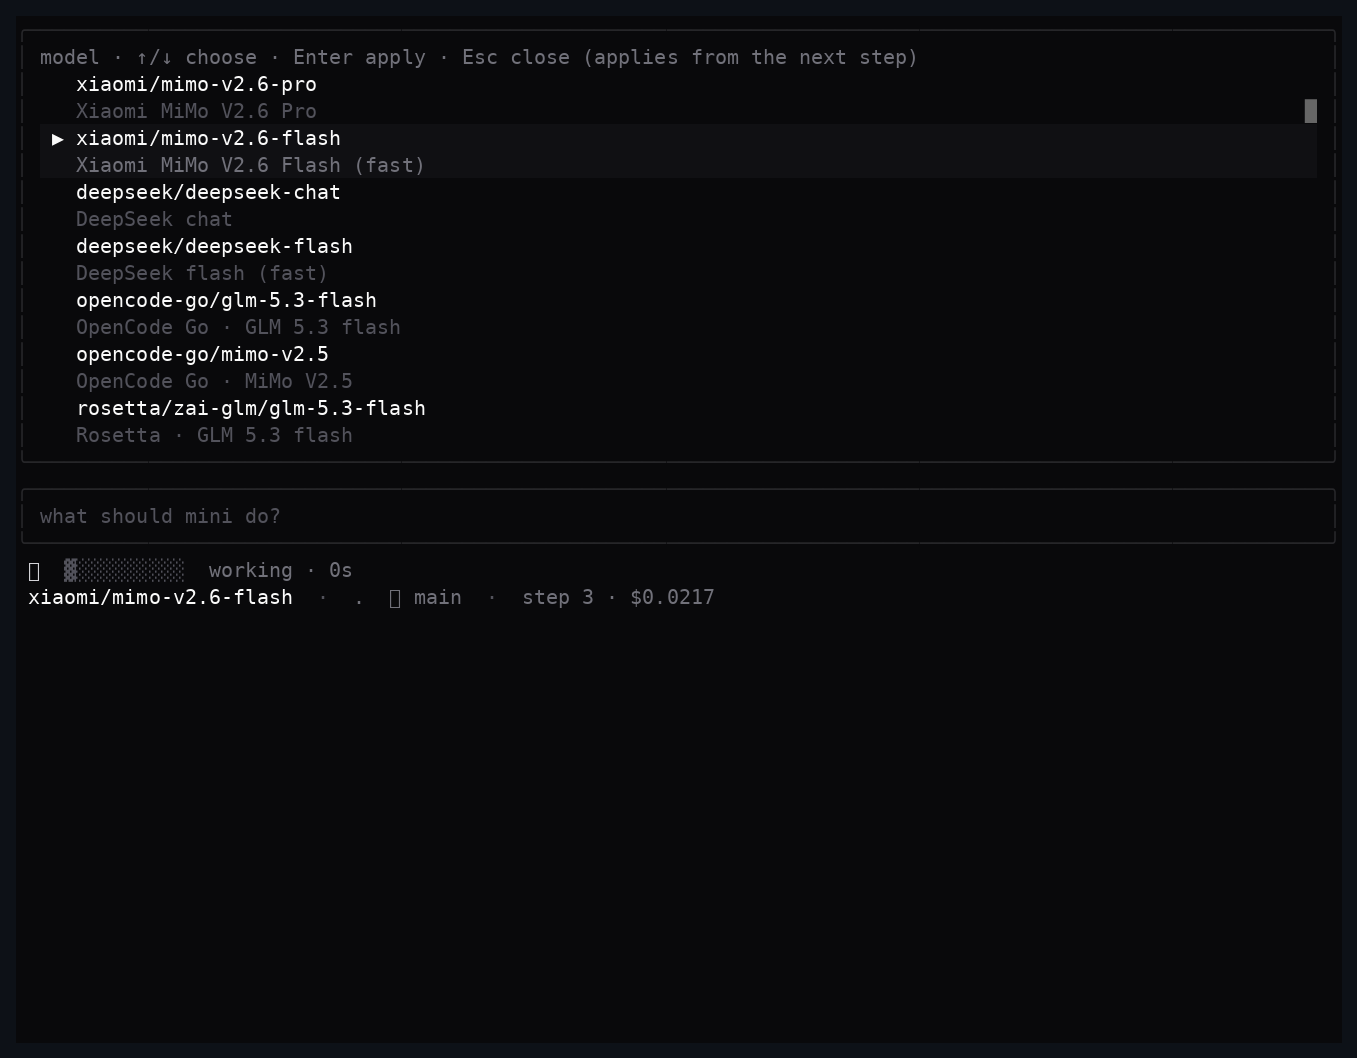
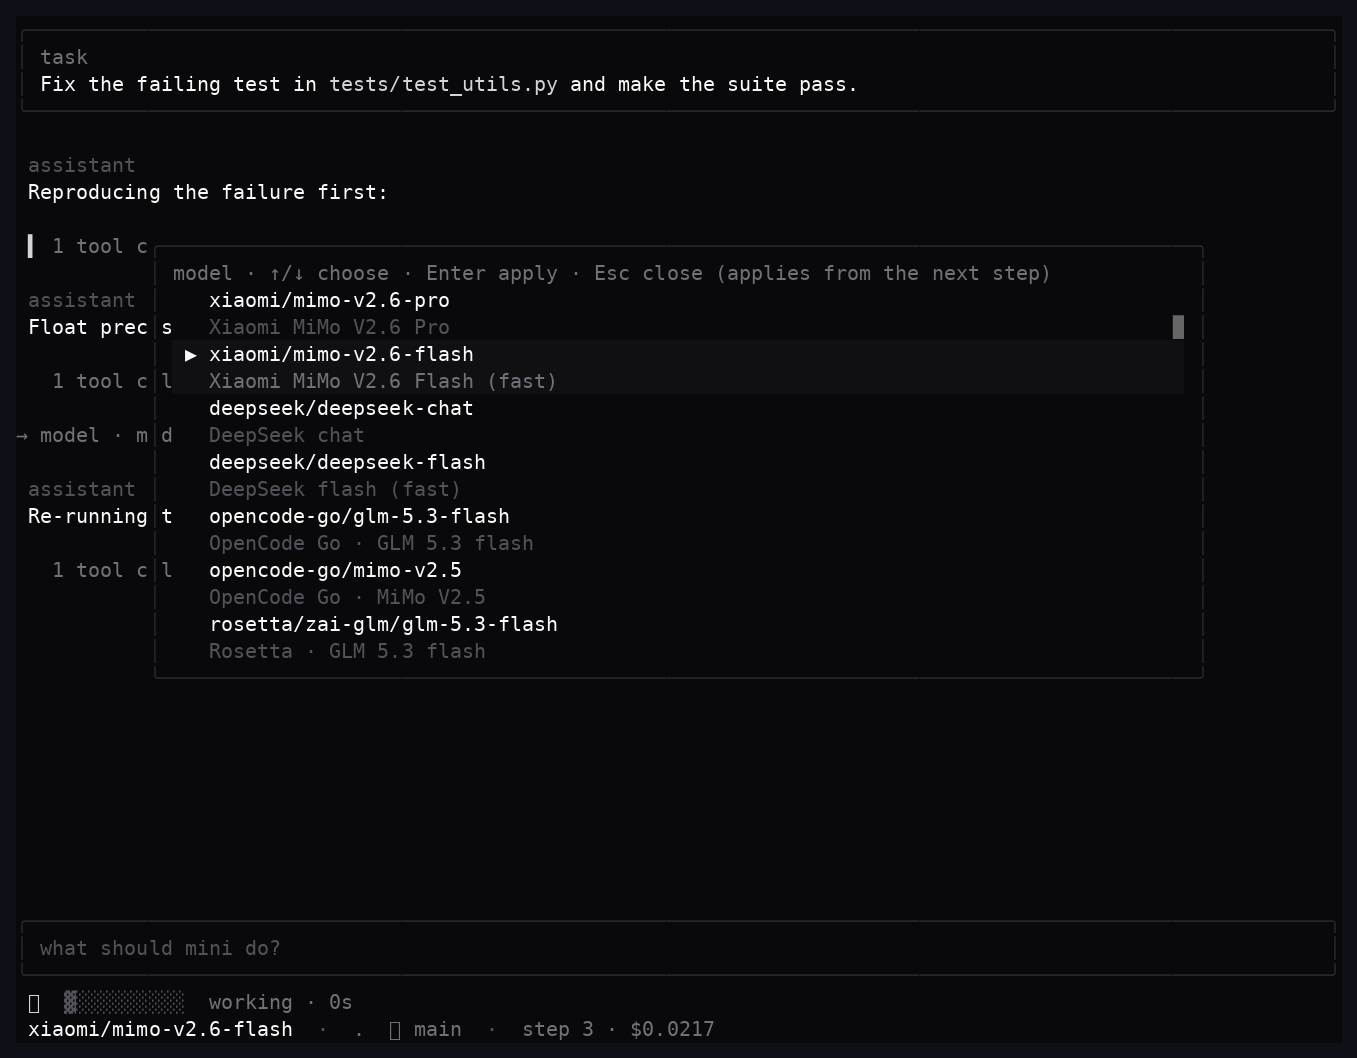
fix: command panels are true modals — the prompt bar never moves
- /model, /settings, /resume, /connect and /help render as absolute centered
  modals over the transcript instead of replacing it, so the prompt bar and the
  bottom stack keep their position even when height is tight
- panels clip to the available area (select height follows the viewport, the
  connect wizard windows its lists around the selection)
- regression test: identical prompt row with and without a modal on a 16-row
  terminal

diff --git a/src/ui/App.tsx b/src/ui/App.tsx
@@ -15,6 +15,7 @@ import { PromptBar } from "./components/PromptBar";
 import { ModelPicker, MODELS } from "./components/ModelPicker";
 import { SettingsPanel } from "./components/SettingsPanel";
 import { HelpPanel } from "./components/HelpPanel";
+import { Modal } from "./components/Modal";
 import { SessionModal } from "./components/SessionModal";
 import { CommandPalette, buildOptions, matchOptions, type CommandOption } from "./components/CommandPalette";
 import { ConnectWizard } from "./components/ConnectWizard";
@@ -542,13 +543,13 @@ export function App(props: AppProps) {
       }
 
       if (step.kind === "models") {
-        const shown = filterModels(step.models, step.query).slice(0, 10);
+        const filtered = filterModels(step.models, step.query);
         if (key.name === "escape") return setConnectStep({ kind: "key", def: step.def, value: step.key });
         if (key.name === "up") return setConnectStep({ ...step, index: Math.max(0, step.index - 1) });
-        if (key.name === "down") return setConnectStep({ ...step, index: Math.min(Math.max(shown.length - 1, 0), step.index + 1) });
+        if (key.name === "down") return setConnectStep({ ...step, index: Math.min(Math.max(filtered.length - 1, 0), step.index + 1) });
         if (key.name === "backspace") return setConnectStep({ ...step, query: step.query.slice(0, -1), index: 0 });
         if (key.name === "return" || key.name === "enter" || key.name === "tab" || key.name === "kpenter") {
-          const model = shown[Math.min(step.index, Math.max(shown.length - 1, 0))];
+          const model = filtered[Math.min(step.index, Math.max(filtered.length - 1, 0))];
           if (!model) return;
           setConnectStep({ kind: "testing", def: step.def, key: step.key, model });
           const modelName = `${step.def.prefix}/${model}`;
@@ -716,33 +717,37 @@ export function App(props: AppProps) {
 
   // Compact bottom stack: prompt (grows with the text) · loader (while running) · meta · hint.
   const bottomRows = 2 + promptRows + (displayStatus === "running" ? 1 : 0) + 1 + (hintText ? 1 : 0);
+  const modalAreaHeight = Math.max(4, dims.height - bottomRows);
+
+  const overlayNode =
+    overlayState === "model" ? (
+      <ModelPicker
+        current={modelOverride ?? info.model ?? props.runSpec?.model ?? DEFAULT_MODEL}
+        models={modelOptions}
+        areaHeight={modalAreaHeight}
+        onPick={applyModel}
+        onCancel={() => setOverlay("none")}
+      />
+    ) : overlayState === "connect" && connectStep ? (
+      <ConnectWizard step={connectStep} providers={PROVIDERS} areaHeight={modalAreaHeight} />
+    ) : overlayState === "settings" ? (
+      <SettingsPanel settings={settings} onApply={applySettings} onCancel={() => setOverlay("none")} />
+    ) : overlayState === "help" ? (
+      <HelpPanel />
+    ) : overlayState === "resume" ? (
+      <SessionModal
+        sessions={resumeRows}
+        query={resumeQuery}
+        page={Math.min(resumePage, Math.max(0, resumePages - 1))}
+        pages={resumePages}
+        selectedIndex={Math.min(resumeIdx, Math.max(resumeRows.length - 1, 0))}
+        onPick={openSession}
+      />
+    ) : null;
 
   return (
     <box flexDirection="column" width="100%" height="100%" backgroundColor={colors.bg}>
-      {overlayState === "model" ? (
-        <ModelPicker
-          current={modelOverride ?? info.model ?? props.runSpec?.model ?? DEFAULT_MODEL}
-          models={modelOptions}
-          onPick={applyModel}
-          onCancel={() => setOverlay("none")}
-        />
-      ) : overlayState === "connect" && connectStep ? (
-        <ConnectWizard step={connectStep} providers={PROVIDERS} />
-      ) : overlayState === "settings" ? (
-        <SettingsPanel settings={settings} onApply={applySettings} onCancel={() => setOverlay("none")} />
-      ) : overlayState === "help" ? (
-        <HelpPanel />
-      ) : overlayState === "resume" ? (
-        <SessionModal
-          sessions={resumeRows}
-          query={resumeQuery}
-          page={Math.min(resumePage, Math.max(0, resumePages - 1))}
-          pages={resumePages}
-          selectedIndex={Math.min(resumeIdx, Math.max(resumeRows.length - 1, 0))}
-          onPick={openSession}
-        />
-      ) : (
-        <scrollbox
+      <scrollbox
           ref={scrollRef}
           stickyStart="bottom"
           width="100%"
@@ -806,7 +811,6 @@ export function App(props: AppProps) {
             </box>
           ) : null}
         </scrollbox>
-      )}
       {paletteOpen ? (
         <CommandPalette
           options={paletteOptions}
@@ -839,6 +843,7 @@ export function App(props: AppProps) {
         status={displayStatus}
       />
       <StatusBar hint={hintText} />
+      {overlayNode ? <Modal areaHeight={modalAreaHeight}>{overlayNode}</Modal> : null}
     </box>
   );
 }

diff --git a/src/ui/components/ConnectWizard.tsx b/src/ui/components/ConnectWizard.tsx
@@ -1,18 +1,21 @@
 import { colors } from "../theme";
-import type { ConnectStep } from "../../connect";
+import { filterModels, visibleSlice, type ConnectStep } from "../../connect";
 import type { ProviderDef } from "../../providers";
 
 /** `/connect` wizard: provider → API key → model → connection test. */
-export function ConnectWizard(props: { step: ConnectStep; providers: ProviderDef[] }) {
+export function ConnectWizard(props: { step: ConnectStep; providers: ProviderDef[]; areaHeight?: number }) {
   const step = props.step;
+  // Keep the panel inside the available area: window the lists instead of overflowing.
+  const budget = Math.max(4, (props.areaHeight ?? 24) - 4);
   return (
     <box borderStyle="rounded" borderColor={colors.border} width="80%" marginLeft="auto" marginRight="auto" paddingX={1} gap={0}>
       <text fg={colors.dim}>connect provider · Esc close</text>
 
       {step.kind === "provider" ? (
         <>
-          {props.providers.map((provider, i) => {
-            const selected = i === step.index;
+          {visibleSlice(props.providers, step.index, budget).items.map((provider) => {
+            const index = props.providers.indexOf(provider);
+            const selected = index === step.index;
             return (
               <box key={provider.id} flexDirection="row" gap={2}>
                 <text fg={colors.accent}>{selected ? "▸" : " "}</text>
@@ -45,8 +48,10 @@ export function ConnectWizard(props: { step: ConnectStep; providers: ProviderDef
             <text fg={colors.text}>{step.query}▏</text>
           </box>
           {step.models.length === 0 ? <text fg={colors.faint}>no models match</text> : null}
-          {step.models.slice(0, 10).map((model, i) => {
-            const selected = i === step.index;
+          {visibleSlice(filterModels(step.models, step.query), step.index, budget - 2).items.map((model, i, all) => {
+            const filtered = filterModels(step.models, step.query);
+            const index = filtered.indexOf(model, filtered.length - all.length >= 0 ? 0 : 0);
+            const selected = model === filtered[step.index];
             return (
               <box key={model} flexDirection="row" gap={1}>
                 <text fg={colors.accent}>{selected ? "▸" : " "}</text>

diff --git a/tests/render.test.tsx b/tests/render.test.tsx
@@ -718,3 +718,42 @@ describe("/connect BYOK wizard", () => {
     }
   });
 });
+
+describe("modals", () => {
+  test("float over the transcript and never move the prompt bar (short terminal)", async () => {
+    const { events, info } = parseTrajectory(loadFixture("normal-step"));
+    const short = { width: 110, height: 16 };
+
+    const plain = await testRender(
+      <App cwd="." events={events} info={info} initialSettings={EXPANDED} onQuit={() => {}} />,
+      short,
+    );
+    await plain.renderOnce();
+    const promptRow = plain
+      .captureCharFrame()
+      .split("\n")
+      .findIndex((l) => l.includes("what should mini do"));
+    plain.renderer.destroy();
+
+    const modal = await testRender(
+      <App cwd="." events={events} info={info} initialSettings={EXPANDED} onQuit={() => {}} />,
+      short,
+    );
+    await modal.renderOnce();
+    await modal.mockInput.typeText("/model");
+    await Bun.sleep(20);
+    await act(async () => {
+      modal.mockInput.pressEnter(); // palette fill
+    });
+    await modal.renderOnce();
+    await act(async () => {
+      modal.mockInput.pressEnter(); // open the modal
+    });
+    await modal.renderOnce();
+    const frame = modal.captureCharFrame();
+    const lines = frame.split("\n");
+    expect(lines.findIndex((l) => l.includes("what should mini do"))).toBe(promptRow); // prompt bar unmoved
+    expect(frame).toContain("Xiaomi MiMo"); // picker visible, clipped to the area
+    modal.renderer.destroy();
+  });
+});

diff --git a/src/ui/components/ModelPicker.tsx b/src/ui/components/ModelPicker.tsx
@@ -28,6 +28,7 @@ export function indexForModel(model: string | undefined): number {
 export function ModelPicker(props: {
   current?: string;
   models?: SelectOption[];
+  areaHeight?: number;
   onPick: (model: string) => void;
   onCancel: () => void;
 }) {
@@ -38,7 +39,7 @@ export function ModelPicker(props: {
   };
   const [selectedIndex, setSelectedIndex] = useState(() => indexFor(props.current));
   return (
-    <box borderStyle="rounded" borderColor={colors.border} paddingX={1} gap={0}>
+    <box borderStyle="rounded" borderColor={colors.border} width="80%" paddingX={1} gap={0}>
       <text fg={colors.dim}>model · ↑/↓ choose · Enter apply · Esc close (applies from the next step)</text>
       <select
         options={models}
@@ -48,7 +49,7 @@ export function ModelPicker(props: {
         showDescription
         showScrollIndicator
         width="100%"
-        height={14}
+        height={Math.max(5, Math.min(14, (props.areaHeight ?? 18) - 4))}
         backgroundColor={colors.bg}
         focusedBackgroundColor={colors.bg}
         focusedTextColor={colors.text}

diff --git a/src/ui/components/Modal.tsx b/src/ui/components/Modal.tsx
@@ -1,0 +1,24 @@
+import type { ReactNode } from "react";
+
+/**
+ * True modal overlay: absolutely positioned and centered over the transcript area,
+ * so panels never push the prompt bar (or anything else) around — even on short
+ * terminals, where content is expected to fit/scroll inside the panel instead.
+ */
+export function Modal(props: { areaHeight: number; children: ReactNode }) {
+  return (
+    <box
+      position="absolute"
+      top={0}
+      left={0}
+      width="100%"
+      height={props.areaHeight}
+      zIndex={100}
+      flexDirection="column"
+      justifyContent="center"
+      alignItems="center"
+    >
+      {props.children}
+    </box>
+  );
+}

diff --git a/src/connect.ts b/src/connect.ts
@@ -14,3 +14,12 @@ export function filterModels(models: string[], query: string): string[] {
   if (!needle) return models;
   return models.filter((model) => model.toLowerCase().includes(needle));
 }
+
+/**
+ * Window of items to display around the selection (lists never overflow the panel).
+ * Indices always refer to the full `items` array.
+ */
+export function visibleSlice<T>(items: T[], index: number, budget: number): { start: number; items: T[] } {
+  const start = Math.max(0, Math.min(index - Math.floor(budget / 2), Math.max(0, items.length - budget)));
+  return { start, items: items.slice(start, start + budget) };
+}

diff --git a/src/ui/components/SettingsPanel.tsx b/src/ui/components/SettingsPanel.tsx
@@ -16,7 +16,7 @@ export function SettingsPanel(props: {
   }));
   const [selectedIndex, setSelectedIndex] = useState(() => indexForMode(props.settings.outputMode));
   return (
-    <box borderStyle="rounded" borderColor={colors.border} paddingX={1} gap={0}>
+    <box borderStyle="rounded" borderColor={colors.border} width="80%" paddingX={1} gap={0}>
       <text fg={colors.dim}>settings · output display · Enter apply · Esc close</text>
       <select
         options={options}

diff --git a/src/ui/components/HelpPanel.tsx b/src/ui/components/HelpPanel.tsx
@@ -17,7 +17,7 @@ export function HelpPanel() {
     ["PgUp PgDn  ·  g G", "scroll · top / bottom"],
   ];
   return (
-    <box borderStyle="rounded" borderColor={colors.border} paddingX={1} gap={0}>
+    <box borderStyle="rounded" borderColor={colors.border} width="80%" paddingX={1} gap={0}>
       <text fg={colors.dim}>help · Esc close</text>
       {rows.map(([key, detail]) => (
         <box key={key} flexDirection="row" gap={2}>

diff --git a/README.md b/README.md
@@ -56,6 +56,10 @@ outputs — into cards, badges and banners. The harness runs completely untouche
 
   ![connect wizard](docs/screenshots/connect.png)
 
+- **Modals, not layout shifts.** `/model`, `/settings`, `/resume`, `/connect` and `/help` open as
+  floating modals centered over the transcript — the prompt bar and the bottom stack never move,
+  and panels clip to the available area on short terminals.
+
 - **`/help`** lists every command and key in one panel.
 
   ![help panel](docs/screenshots/help.png)
